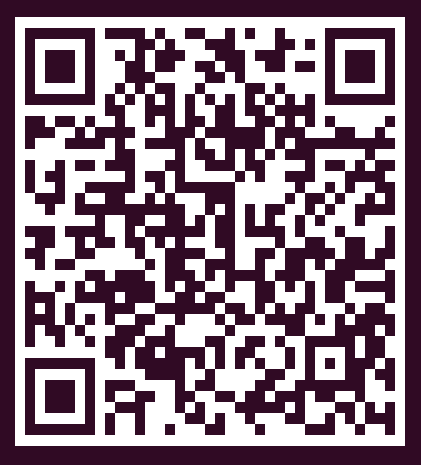
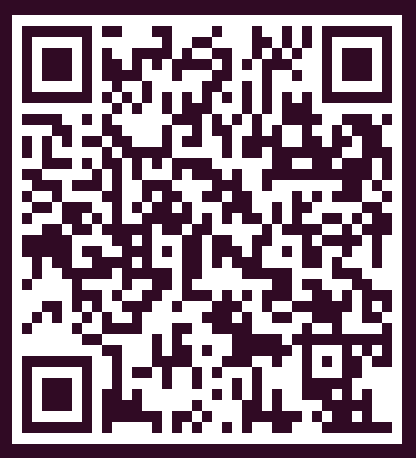
feat(landing): update apk download link and qr code

diff --git a/landing-page/src/App.tsx b/landing-page/src/App.tsx
@@ -279,7 +279,7 @@ export default function App() {
                 Escaneie com a câmera do seu celular para baixar a versão oficial do APK e se conectar à rede segura.
               </p>
               
-              <a href="https://expo.dev/artifacts/eas/sv22DbDqBTiLFoV3F7HzKo.apk" target="_blank" rel="noopener noreferrer" className="flex items-center justify-center gap-2 w-full px-6 py-4 bg-primary-600 text-white font-semibold rounded-xl hover:bg-primary-500 transition-colors shadow-lg">
+              <a href="https://expo.dev/artifacts/eas/fdU8f46qguEQgZj2XDYr6q.apk" target="_blank" rel="noopener noreferrer" className="flex items-center justify-center gap-2 w-full px-6 py-4 bg-primary-600 text-white font-semibold rounded-xl hover:bg-primary-500 transition-colors shadow-lg">
                 <Smartphone className="w-5 h-5" />
                 {t('footer.cta.download')}
               </a>
